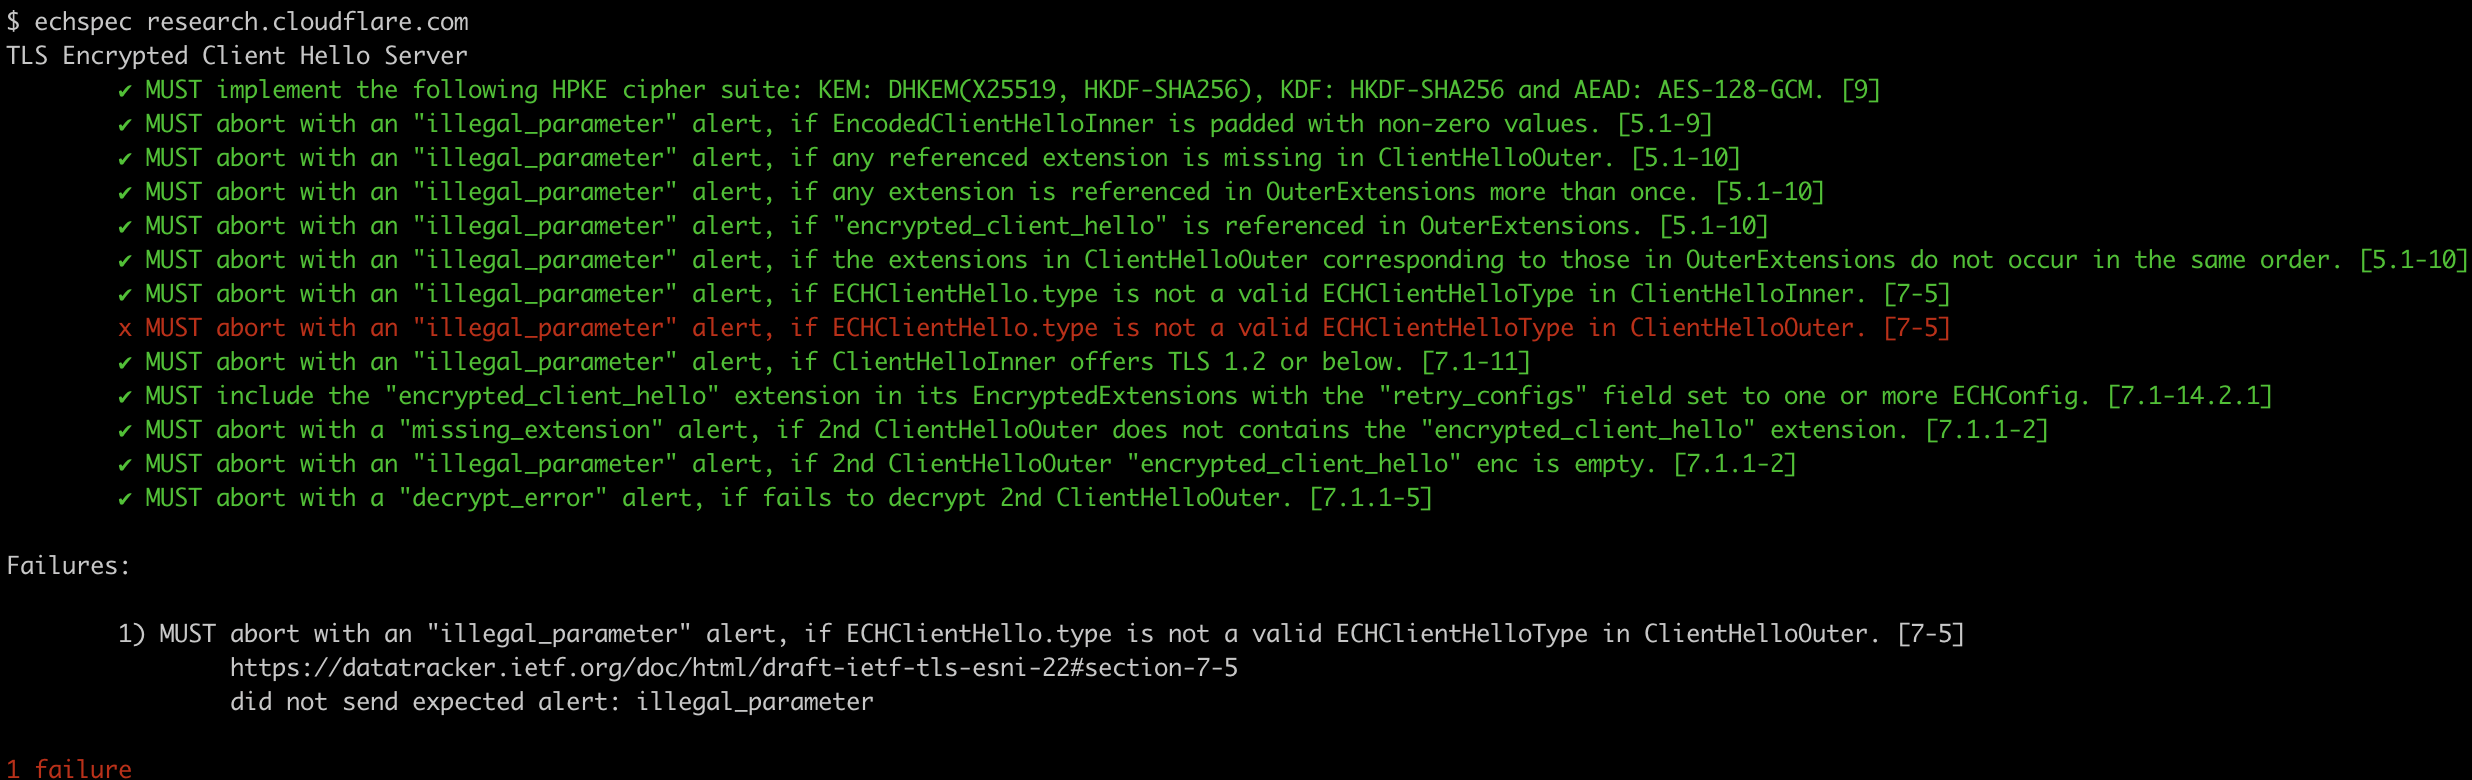
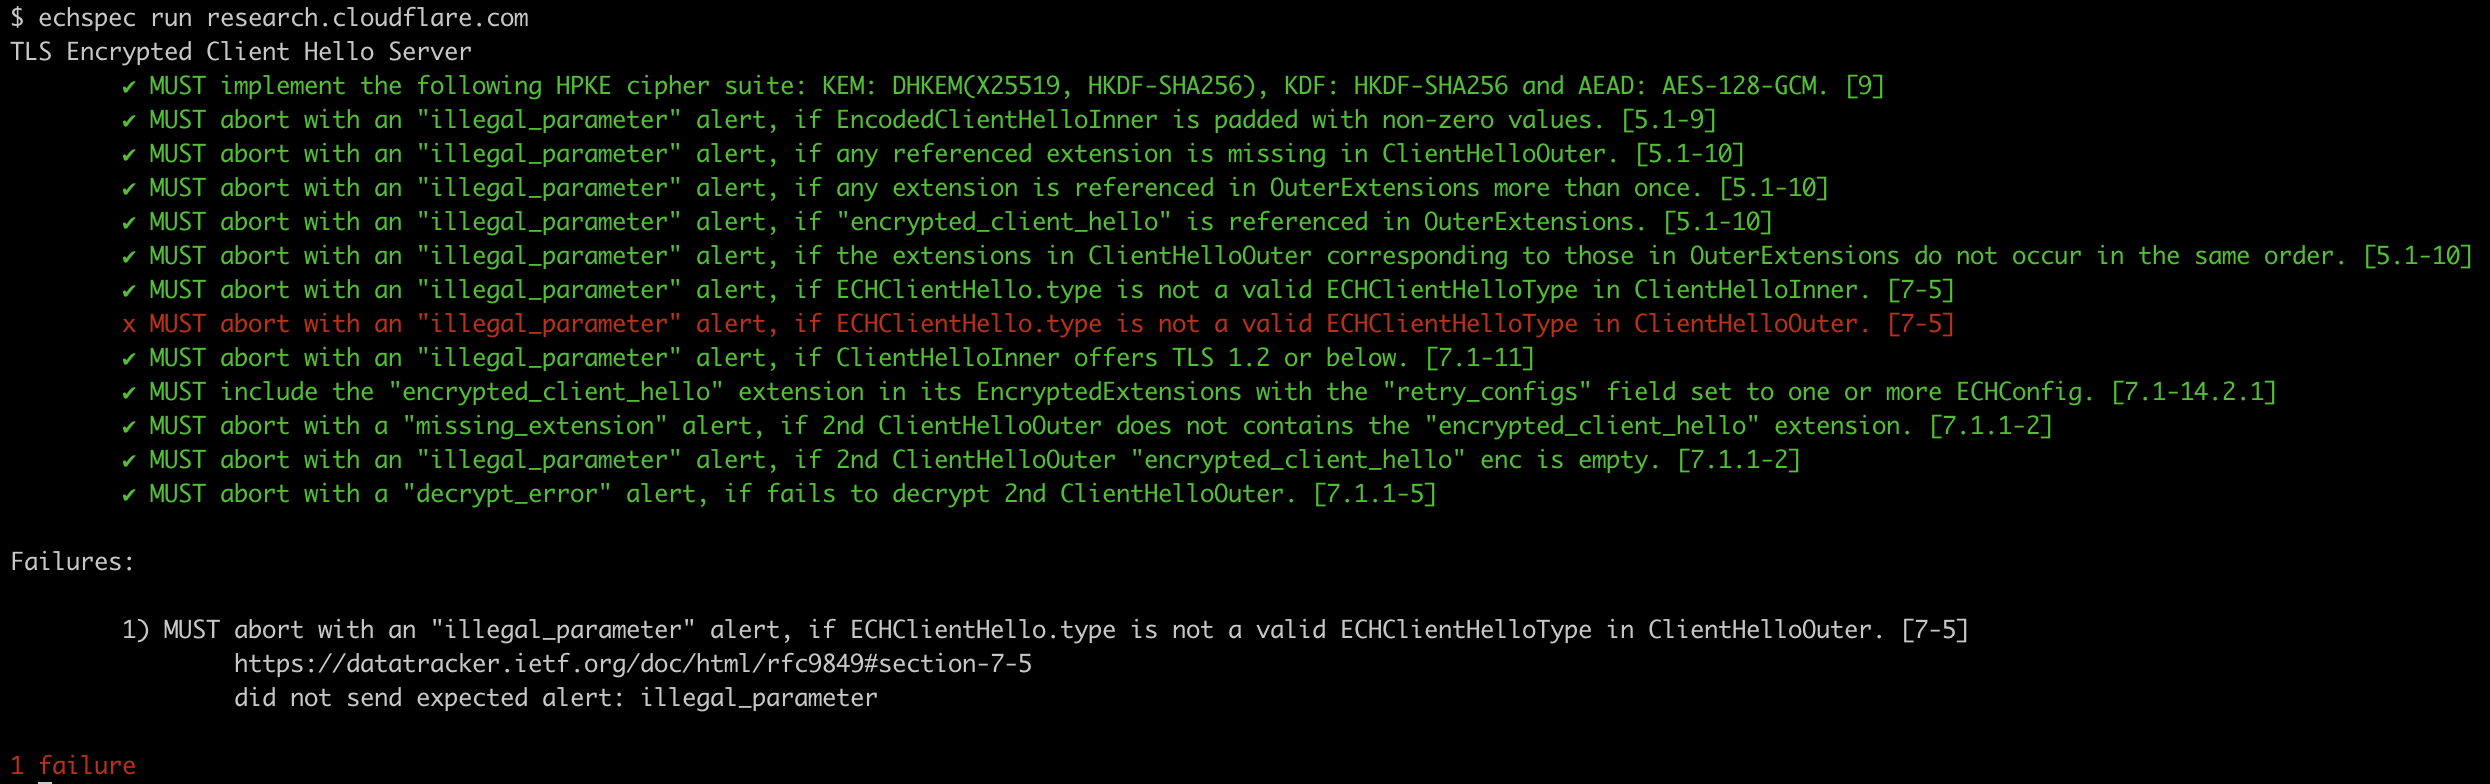
docs: update README
refactor: rename; gen -> write

diff --git a/lib/echspec/cli/gen_configs.rb b/lib/echspec/cli/gen_configs.rb
@@ -3,13 +3,13 @@ module EchSpec
     class GenConfigs
       def execute(argv)
         fpath = parse_options(argv)
-        gen(fpath)
+        write(fpath)
       end
 
       def parse_options(argv)
         op = OptionParser.new
 
-        op.banner = 'Usage: echspec gen_configs {FILE_PATH}'
+        op.banner = 'Usage: echspec gen_configs {FILE}'
 
         begin
           args = op.parse(argv)
@@ -21,13 +21,13 @@ module EchSpec
 
         if args.length != 1
           warn op
-          warn '** {FILE_PATH} argument is not specified'
+          warn '** {FILE} argument is not specified'
           exit 1
         end
         args[0]
       end
 
-      def gen(fpath)
+      def write(fpath)
         hostname = 'localhost'
 
         key = OpenSSL::PKey.generate_key('X25519')

diff --git a/lib/echspec/cli.rb b/lib/echspec/cli.rb
@@ -27,7 +27,7 @@ module EchSpec
         klass = self.class.const_get(subcommand.to_camel)
         klass.new.__send__(:execute, argv)
       else
-        puts op.help
+        puts op
       end
     end
   end

diff --git a/README.md b/README.md
@@ -24,7 +24,13 @@ $ gem install echspec
 
 ```sh-session
 $ echspec --help
-Usage: echspec [OPTIONS] <HOSTNAME>
+Usage: echspec {SUBCOMMAND}
+
+Available subcommands: run, gen_configs, version, help.
+```
+```sh-session
+$ echspec run --help
+Usage: echspec run [OPTIONS...] {HOSTNAME}
     -f, --file FILE                  path to ECHConfigs PEM file       (default resolve ECHConfigs via DNS)
     -p, --port VALUE                 server port number                (default 443)
     -n, --not-force-compliant-hpke   not force compliant ECHConfig HPKE cipher suite
@@ -35,7 +41,7 @@ Usage: echspec [OPTIONS] <HOSTNAME>
 You can run it the following:
 
 ```sh-session
-$ echspec research.cloudflare.com
+$ echspec run research.cloudflare.com
 TLS Encrypted Client Hello Server
         ✔ MUST implement the following HPKE cipher suite: KEM: DHKEM(X25519, HKDF-SHA256), KDF: HKDF-SHA256 and AEAD: AES-128-GCM. [9]
         ✔ MUST abort with an "illegal_parameter" alert, if EncodedClientHelloInner is padded with non-zero values. [5.1-9]
@@ -63,7 +69,7 @@ Failures:
 By default, `echspec` retrieves ECHConfigs via HTTPS records. By using the `-f, --file FILE` option, you can specify an ECHConfig pem file. If you need to test the server on localhost, you can run it the following:
 
 ```sh-session
-$ echspec -f fixtures/echconfigs.pem -p 4433 localhost
+$ echspec run -f fixtures/echconfigs.pem -p 4433 localhost
 ```
 
 By default, `echspec` uses the following HPKE cipher suite
@@ -78,13 +84,13 @@ By default, `echspec` uses the following HPKE cipher suite
 Using the `-n` or `--not-force-compliant-hpke`, you can not enforce the HPKE cipher suite.
 
 ```sh-session
-$ echspec -f fixtures/echconfigs.pem -p 4433 -n localhost
+$ echspec run -f fixtures/echconfigs.pem -p 4433 -n localhost
 ```
 
 If you specify the SECTIONS, you can run only SECTIONS the following:
 
 ```sh-session
-$ echspec -f fixtures/echconfigs.pem -p 4433 -n -s 7.1.1-2,7.1.1-5 localhost
+$ echspec run -f fixtures/echconfigs.pem -p 4433 -n -s 7.1.1-2,7.1.1-5 localhost
 TLS Encrypted Client Hello Server
         ✔ MUST abort with a "missing_extension" alert, if 2nd ClientHelloOuter does not contains the "encrypted_client_hello" extension. [7.1.1-2]
         ✔ MUST abort with an "illegal_parameter" alert, if 2nd ClientHelloOuter "encrypted_client_hello" enc is empty. [7.1.1-2]
@@ -94,7 +100,7 @@ TLS Encrypted Client Hello Server
 Using the `-v` or `--verbose` option provides a message stack if an error occurs. The message stack is formatted as JSON.
 
 ```sh-session
-$ echspec -s 7-5 -v research.cloudflare.com 2>&1 > /dev/null | jq .
+$ echspec run -s 7-5 -v research.cloudflare.com 2>&1 > /dev/null | jq .
 ````
 
 <details>
